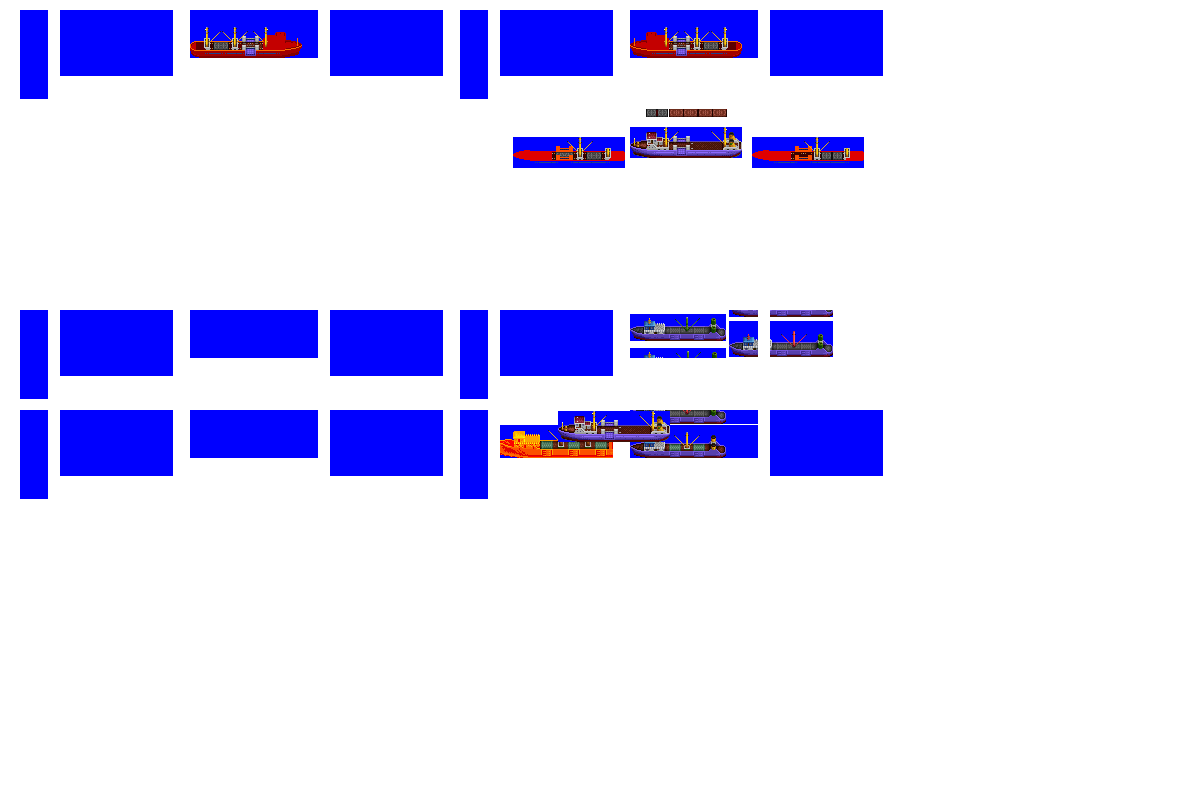
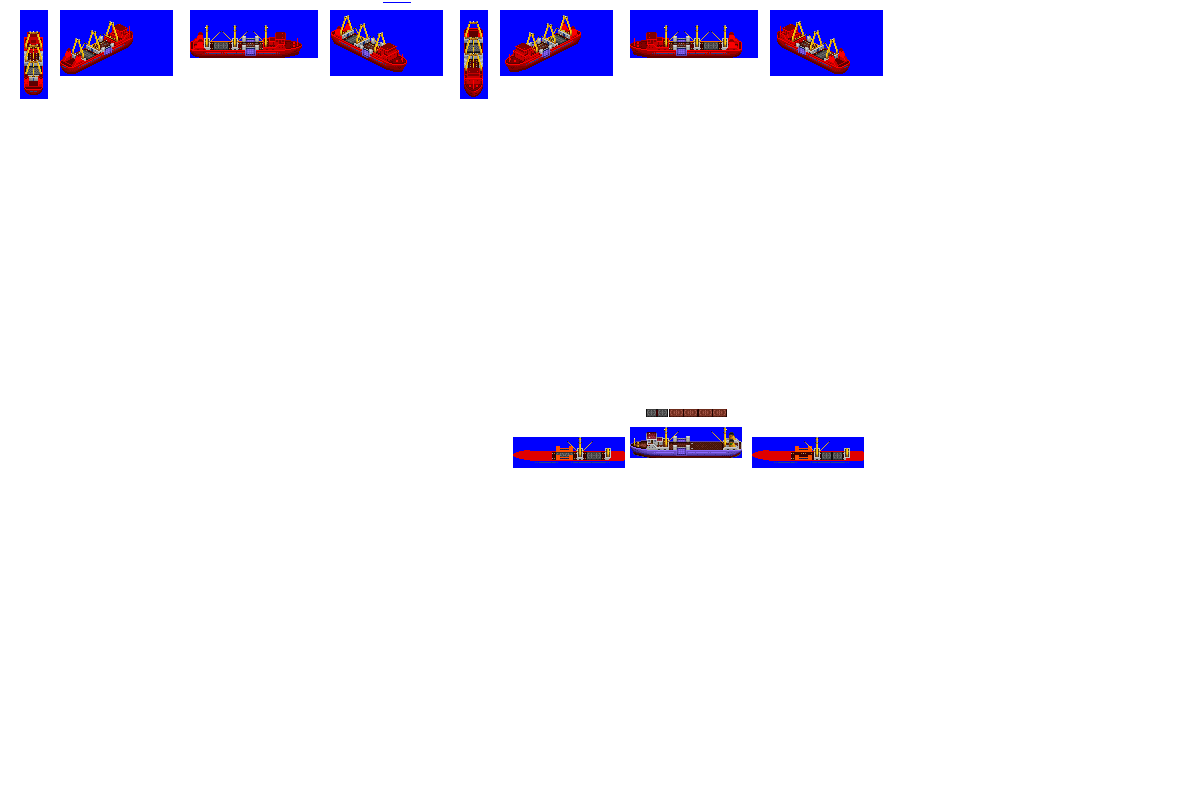
Change: sprites complete for gen 3E reefer

diff --git a/src/vehicles/reefers.py b/src/vehicles/reefers.py
@@ -41,7 +41,7 @@ def main():
         subtype="E",
         hull="ShipHouseForward",
         effect_type="EFFECT_SPRITE_DIESEL",
-        sprites_complete=False,
+        sprites_complete=True,
     )
 
     ship = Reefer(
